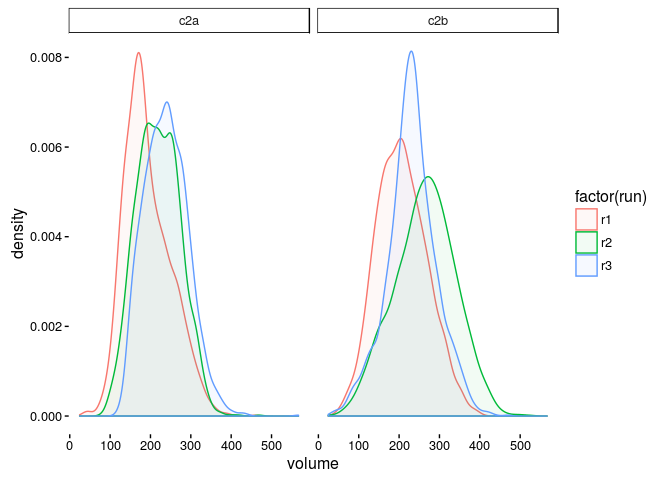
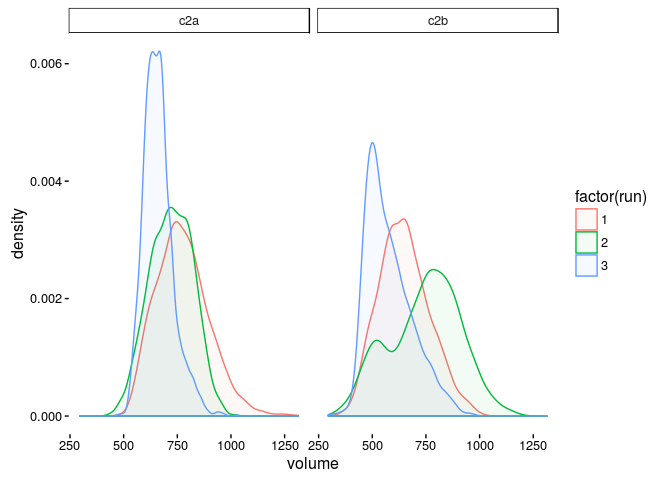
added rmsd plot

diff --git a/analysis/volume.py b/analysis/volume.py
@@ -21,12 +21,9 @@ class Volume(Analysis):
       s.append(200)
       s.extend(range(230,239))
     if fname[:3] == "c2b":
-      s.append("305")
-      s.append("302")
-      s.append("308")
-      s.append("367")
-      s.append("364")
-      s.append("370")
+      s.extend(range(303,309))
+      s.append(333)
+      s.extend(range(365,371))
     return s
 
   def write_hull(self, h, ps):
@@ -72,6 +69,6 @@ class Volume(Analysis):
     for row in data:
       print(str(row[0]) + ' ' + str(row[1]) + ' ' + row[2] + ' ' + row[3] + ' ' + row[4])
 
-v = Volume(base.C2A_DIRECTORY)
-v.compute_hull("../structures/psf/c2a_Y180F.psf", "../data/dcds/c2a/c2a_Y180F_1.dcd")
-#v.prun()
+v = Volume()
+#v.compute_hull("../structures/psf/c2a_Y180F.psf", "../data/dcds/c2a_Y180F_1.dcd")
+v.prun()

diff --git a/analysis/rmsd.py b/analysis/rmsd.py
@@ -34,7 +34,7 @@ class Rmsd_ana(Analysis):
     return data
 
   def write(self, data, filename="out,data"):
-    print ('frame rmsd label')
+    print ('frame rmsd c2 mutant run')
     for row in data:
       print(str(row[0]) + ' ' + str(row[1]) + ' ' + row[2] + ' ' + row[3] + ' ' + row[4])
 

diff --git a/README.md b/README.md
@@ -77,9 +77,11 @@ The volume of the pocket between loops 1 and 3 was defined by 3 c alphas on each
 
 ### RMSD and RMSF
 
+![](README_files/figure-markdown_github/unnamed-chunk-6-1.png)
+
 ### Ramachandran
 
-![](README_files/figure-markdown_github/unnamed-chunk-6-1.png)
+![](README_files/figure-markdown_github/unnamed-chunk-7-1.png)
 
 Links
 -----
